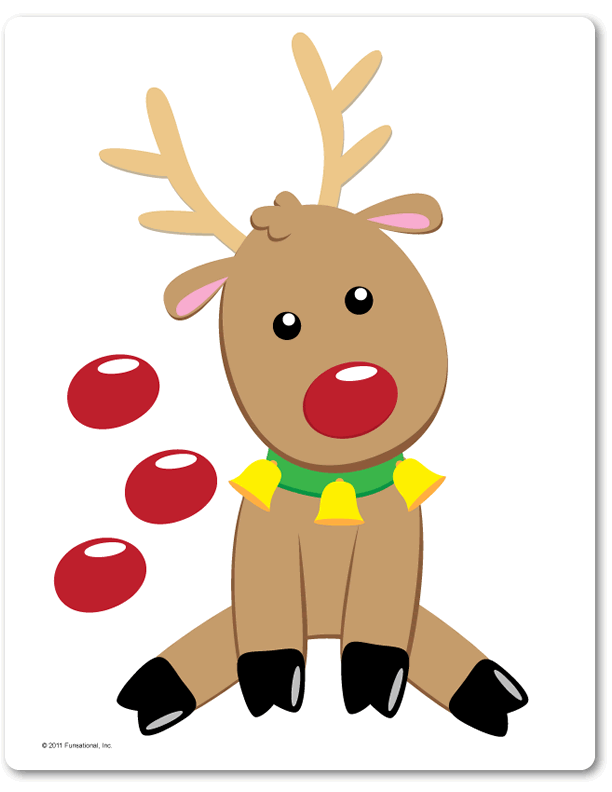
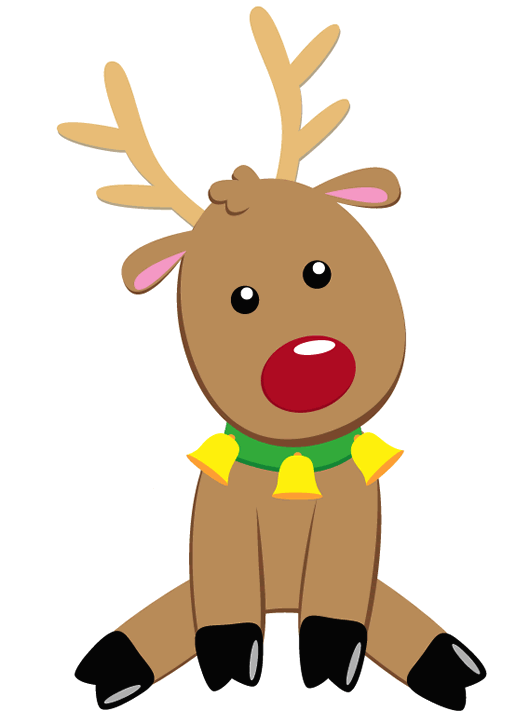
weeee

Changed region(s): [[0.0, 0.0, 1.0, 1.0], [0.5528, 0.3389, 0.6449, 0.4006], [0.4299, 0.3697, 0.5221, 0.4622]]

diff --git a/7/cow/angela_christina/rudolph.js b/7/cow/angela_christina/rudolph.js
@@ -1,15 +1,36 @@
 //CTRL-SHIFT-J TO OPEN CONSOLE (in chrome, on linux)
-
+   //displays the image if mouseX and mouseY are within a certain
+    //range and clicked --> add element to change mouse, 
+    // add source element for image
+    //maybe add a fancy zoom in stuff (inc size of image)
+    //increase score counter? if we feel like it?
+    //use a reset function (document.body.innerHTML = "";
+    //then display a replay button
+    //if replay then???????????????
+var one = new Audio('sleigh_one.mp3');
+var two = new Audio('sleigh_two.mp3');
+var three = new Audio('sleigh_three.mp3');
+var four = new Audio('sleigh_four.mp3');
+var five = new Audio('sleigh_five.mp3');
 var mouseX, mouseY;
 var randX, randY;
+var imageH = 200;
+var imageW = 150;
+var centerX, centerY;
 var playing = false; 
 var nowPlaying;
 //sets our variables mouseX and mouseY to current mouse's x and y
+
+var loop = function(e) {
+    this.currentTime = 0;
+    this.play();
+};
+
 var mouseCoord = function(e){
     mouseX = e.pageX;
     mouseY = e.pageY;
-    console.log("x: " + mouseX);
-    console.log("y: " + mouseY);
+    //console.log("x: " + mouseX);
+    //console.log("y: " + mouseY);
 }
 
 //returns a random integer from min to max inclusive
@@ -17,49 +38,74 @@ var rand = function(min, max) {
     return Math.floor(Math.random() * (max - min)) + min;
 }
 
+//adds an image tag to our html document
+var displayImage = function(e) {
+    var img = document.createElement("img");
+    img.src = "rudolph.png";
+    img.alt = "rudolph";
+    img.id = "rudolph";
+    img.width = imageW;
+    img.height = imageH;
+    img.style.top = randY+"px";
+    img.style.left = randX+"px";
+    //console.log(img);
+    document.body.appendChild(img);
+}
+//once per load, generates random X/Y coordinates for our image
+var placeImage = function(e){
+    randX = rand(0,window.innerWidth-imageW);
+    randY = rand(0, window.innerHeight-imageH);
+    //console.log("randX: " + randX);
+    //console.log("randY: " + randY);
+}
 
-var placeImage = function(e){//e necessary?
-    randX = rand(0,window.innerWidth);
-    randY = rand(0, window.innerHeight);
-    console.log("randX: " + randX);
-    console.log("randX: " + randY);
+//returns the general-ish coordinates of middle of our pcitures
+var centerPos = function(e){
+    centerY = randY + (imageH/2);
+    centerX = randX + (imageW/2);
+    console.log("centerY: "+centerY);
+    console.log("centerX: "+centerX);
 }
-//doesnt work lol woops
-var playMusic = function(e){
-    if(!playing){
-	this.play();
-	nowPlaying = this;
-	this.addEventListener("playing",whatMusic);
-    }
-    else{
+	    
+var playMusic = function(audio){
+    if (playing){	    
+	//console.log("nowPlaying: " + nowPlaying);
 	nowPlaying.pause();
-	this.play();
-	nowPlaying = this;
-	this.addEventListener("playing",whatMusic);
-    
     }
+    else {
+	playing = true;
+    }
+    nowPlaying = audio;
+    audio.play();
 }
+      
+var whatMusic = function(e){
+    changeX=centerX-mouseX;
+    changeY=centerY-mouseY;
+    dist= Math.sqrt(Math.pow(changeX,2) + Math.pow(changeY,2));
+    console.log("dist: "+dist);
+
+    if(dist<50){
 	
 
-    
-var whatMusic = function(e){
-    changeX=randX-mouseX;
-    changeY=randY-mouseY;
-    dist= Math.sqrt(Math.pow(changeX,2) + Math.pow(changeY,2));
-    if(dist<50){
-	var five= document.getElementById("five");
-	playing = true;
-	five.addEventListener("canplay",playMusic);
-    }
-    else if(dist < 250){
-	var four= document.getElementById("four");
-	playing = true;
-	four.addEventListener("canplay",playMusic);
-    }
+
+	else if(dist < 250){
+	if (playing){
+	   // console.log("nowPlaying: " + nowPlaying);
+	    nowPlaying.pause();
+	}
+	else {
+	    playing = true;
+	}
+	
+	nowPlaying = four;
+	four.play();
+}
+/*
     else if(dist < 450){
 	var three= document.getElementById("three");
 	playing = true;
-	three.addElementListener("canplay",playMusic);
+	three.addEventListener("canplay",playMusic);
     }
     else if(dist < 650){
 	var two= document.getElementById("two");
@@ -71,19 +117,28 @@ var whatMusic = function(e){
 	playing = true;
 	one.addEventListener("canplay",playMusic);
     }
-
+*/
 }	
-var displayImage = function(){
-    //displays the image if mouseX and mouseY are within a certain
-    //range and clicked --> add element to change mouse, 
-    // add source element for image
-    //maybe add a fancy zoom in stuff (inc size of image)
-    //increase score counter? if we feel like it?
-    //use a reset function (document.body.innerHTML = "";
-    //then display a replay button
-    //if replay then???????????????
+//http://stackoverflow.com/questions/3273552/html-5-audio-looping
+if (typeof one.loop == 'boolean')
+{
+    one.loop = true;
+    two.loop = true;
+    three.loop = true;
+    four.loop = true;
+    five.loop = true;
 }
+else
+{
+    one.addEventListener('ended', loop);
+    two.addEventListener('ended', loop);
+    three.addEventListener('ended', loop);
+    four.addEventListener('ended', loop);
+    five.addEventListener('ended', loop);
 
+}
 window.addEventListener('mousemove', mouseCoord);
 window.addEventListener('load', placeImage);
-window.addEventListener('load',whatMusic);
+window.addEventListener('load', displayImage);
+window.addEventListener('load', centerPos);
+window.addEventListener('mousemove',whatMusic);

diff --git a/7/cow/angela_christina/rudolph.html b/7/cow/angela_christina/rudolph.html
@@ -11,20 +11,22 @@
 <!--<![endif]-->
 
 </head>
-<style></style>
+
 <!-- CODE TO USE when image pops up
     <audio src="rudolph.mp3" autoplay loop></audio>
 <span style="cursor:pointer">pointer</span><br> 
 
 <input type="button" value="Reload Page" onClick="window.location.reload()">
 -->
-<!-- I took out tue autoplay attribute because having it constantly playing was annoying me and i took out controls so like the audio thing cant be seen-->
+ 
 
-    <audio id="one" src="sleigh_one.mp3" autoplay loop></audio>
-    <audio id="two" src="sleigh_two.mp3" loop></audio>
-    <audio id="three" src="sleigh_three.mp3" loop></audio>
-    <audio id="four" src="sleigh_four.mp3" loop></audio>
-    <audio id="five" src="sleigh_five.mp3" loop></audio>
+<style>
+
+#rudolph {
+    position: absolute;
+}
+
+</style>
 <body>
   <script src ="rudolph.js"></script>
 </body>
